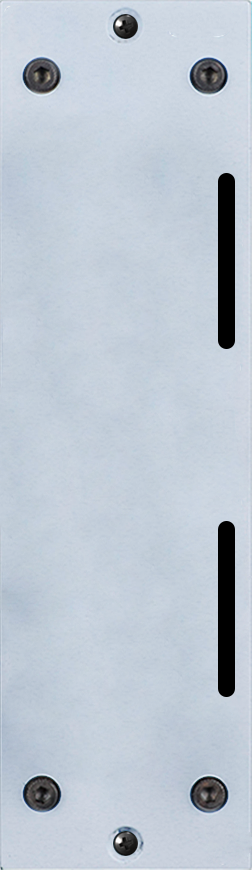
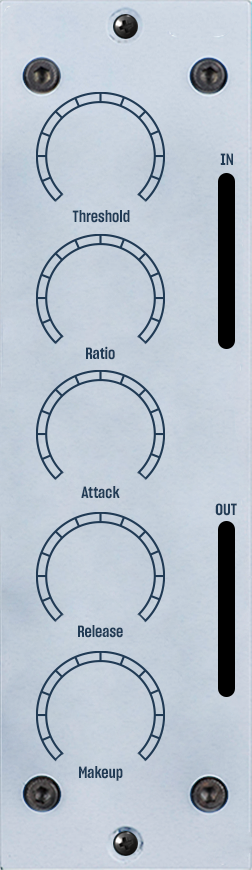
adjustments

diff --git a/index.html b/index.html
@@ -20,7 +20,7 @@
             <div class="left_section flexible middle around column">
               <div class="row flexible middle center">
                 <div class="knob flexible center middle">
-                  <webaudio-knob src="./images/comp_black.png" id="threshold" class="control" sensitivity="0.1" enable="1"  diameter="110"  sprites="100" value="-100" min="-24" max="0" step="1"></webaudio-knob>
+                  <webaudio-knob src="./images/comp_blue.png" id="threshold" class="control" sensitivity="0.1" enable="1"  diameter="110"  sprites="100" value="-24" min="-100" max="0" step="1"></webaudio-knob>
                 </div>
               </div>
               <div class="row flexible middle center">
@@ -40,17 +40,18 @@
               </div>
               <div class="row flexible middle center">
                 <div class="knob flexible center middle">
-                  <webaudio-knob src="./images/comp_black.png" id="makeup" class="control" sensitivity="0.1" enable="1"  diameter="110"  sprites="100" value="0.5" min="0" max="1" step="0.01"></webaudio-knob>
+                  <webaudio-knob src="./images/comp_red.png" id="makeup" class="control" sensitivity="0.1" enable="1"  diameter="110"  sprites="100" value="0.5" min="0" max="1" step="0.01"></webaudio-knob>
                 </div>
               </div>
             </div>
 
             <div class="right_section flexible middle around column">
-              <div class="meter flexible center middle">
-                <webaudio-knob src="./images/cb_led_meter.png" id="inMeter" class="inMeter" sensitivity="1" enable="1" width="15" height="180" sprites="50" value="-70" min="-70" max="6" step="0.01" ></webaudio-knob>
+              <div class="meter flexible center middle column">
+                <webaudio-knob src="./images/cb_led_meter.png" id="inMeter" class="inMeter" sensitivity="1" enable="1" width="15" height="180" sprites="50" value="-70" min="-70" max="0" step="0.01" ></webaudio-knob>
+                <!-- <webaudio-knob src="./images/comp_red.png" id="inLevel" class="control" sensitivity="0.1" enable="1"  diameter="40"  sprites="100" value="0.5" min="0" max="1" step="0.01"></webaudio-knob> -->
               </div>
               <div class="meter flexible center middle">
-                <webaudio-knob src="./images/cb_led_meter.png" id="outMeter" class="inMeter" sensitivity="1" enable="1" width="15" height="180" sprites="50" value="-70" min="-70" max="6" step="0.01" ></webaudio-knob>
+                <webaudio-knob src="./images/cb_led_meter.png" id="outMeter" class="inMeter" sensitivity="1" enable="1" width="15" height="180" sprites="50" value="-70" min="-70" max="0" step="0.01" ></webaudio-knob>
               </div>
             </div>
           </div>

diff --git a/components/Dynamics.js b/components/Dynamics.js
@@ -2,14 +2,14 @@ import { context } from './Context.js'
 
 export default function Dynamics(th, kn, rt, at, rl) {
 
-  let autoMakeup = (comp) => {
+  let makeupAuto = (comp) => {
     let magicCoefficient = 3, // raise me if the output is too hot
         c = comp;
     return -(c.threshold.value - c.threshold.value / c.ratio.value) / magicCoefficient;
   }
 
   const dynamics = context.createDynamicsCompressor();
-  const auto = autoMakeup(dynamics);
+  // const auto = autoMakeup(dynamics);
   const input = context.createGain();
   const output = context.createGain();
   const makeupGain = context.createGain();
@@ -63,44 +63,42 @@ export default function Dynamics(th, kn, rt, at, rl) {
   // let makeup = makeupGain.gain;
 
   input.gain.value = 0.8;
-  makeup.value = autoMakeup(dynamics);
-  output.gain.value = 1
+  output.gain.value = 1;
+  makeupGain.gain.value = 0.5;
 
 
   function threshold(amt) {
-    let thr = dynamics.threshold;
-    thr.exponentialRampToValueAtTime(amt, 0.25);
-    return thr.value;
+    dynamics.threshold.exponentialRampToValueAtTime(amt, 0.25);
+    return dynamics.threshold.value;
   }
 
   function knee(amt) {
-    let kne = dynamics.knee;
-    kne.exponentialRampToValueAtTime(amt, 0.25);
-    return kne.value;
+    dynamics.knee.exponentialRampToValueAtTime(amt, 0.25);
+    return dynamics.knee.value;
   }
 
   function ratio(amt) {
-    let rto = dynamics.knee;
-    rto.exponentialRampToValueAtTime(amt, 0.25);
-    return rto.value;
+    dynamics.ratio.exponentialRampToValueAtTime(amt, 0.25);
+    return dynamics.ratio.value;
   }
 
   function attack(amt) {
-    let att = dynamics.attack;
-    att.exponentialRampToValueAtTime(amt, 0.25);
-    return att.value;
+    dynamics.attack.exponentialRampToValueAtTime(amt, 0.25);
+    return dynamics.attack.value;
   }
 
   function release(amt) {
-    let rel = dynamics.attack;
-    rel.exponentialRampToValueAtTime(amt, 0.25);
-    return rel.value;
+    dynamics.release.exponentialRampToValueAtTime(amt, 0.25);
+    return dynamics.release.value;
   }
 
   function makeup(amt) {
-    let mku = dynamics.knee;
-    mku.exponentialRampToValueAtTime(amt, 0.25);
-    return mku.value;
+     makeupGain.gain.exponentialRampToValueAtTime(amt, 0.25);
+    return makeupGain.gain.value;
+  }
+
+  function autoMakeup() {
+   makeupGain.gain.value = makeupAuto(dynamics);
   }
 
   let to = (node) => {
@@ -115,5 +113,5 @@ export default function Dynamics(th, kn, rt, at, rl) {
 
 
 
-  return {input, output, makeup, attack, knee, ratio, release, threshold, to};
+  return {input, output, autoMakeup, makeup, attack, knee, ratio, release, threshold, to};
 };

diff --git a/main.js b/main.js
@@ -15,6 +15,7 @@ const thresholdKnob = document.getElementById('threshold')
 const ratioKnob = document.getElementById('ratio')
 const attackKnob = document.getElementById('attack')
 const releaseKnob = document.getElementById('release')
+const makeupKnob = document.getElementById('makeup')
 
 const sourceGain = context.createGain();
 sourceGain.gain.value = 0.8;
@@ -30,7 +31,7 @@ outputGain.gain.value = 1;
 const dynamics = Dynamics();
 createMeter(wetGain, inMeter);
 
-
+createMeter(outputGain, outMeter);
 
 
 
@@ -79,4 +80,8 @@ attackKnob.addEventListener('input', () => {
 
 releaseKnob.addEventListener('input', () => {
   dynamics.release(releaseKnob.value);
+});
+
+makeupKnob.addEventListener('input', () => {
+  dynamics.makeup(makeupKnob.value);
 });
